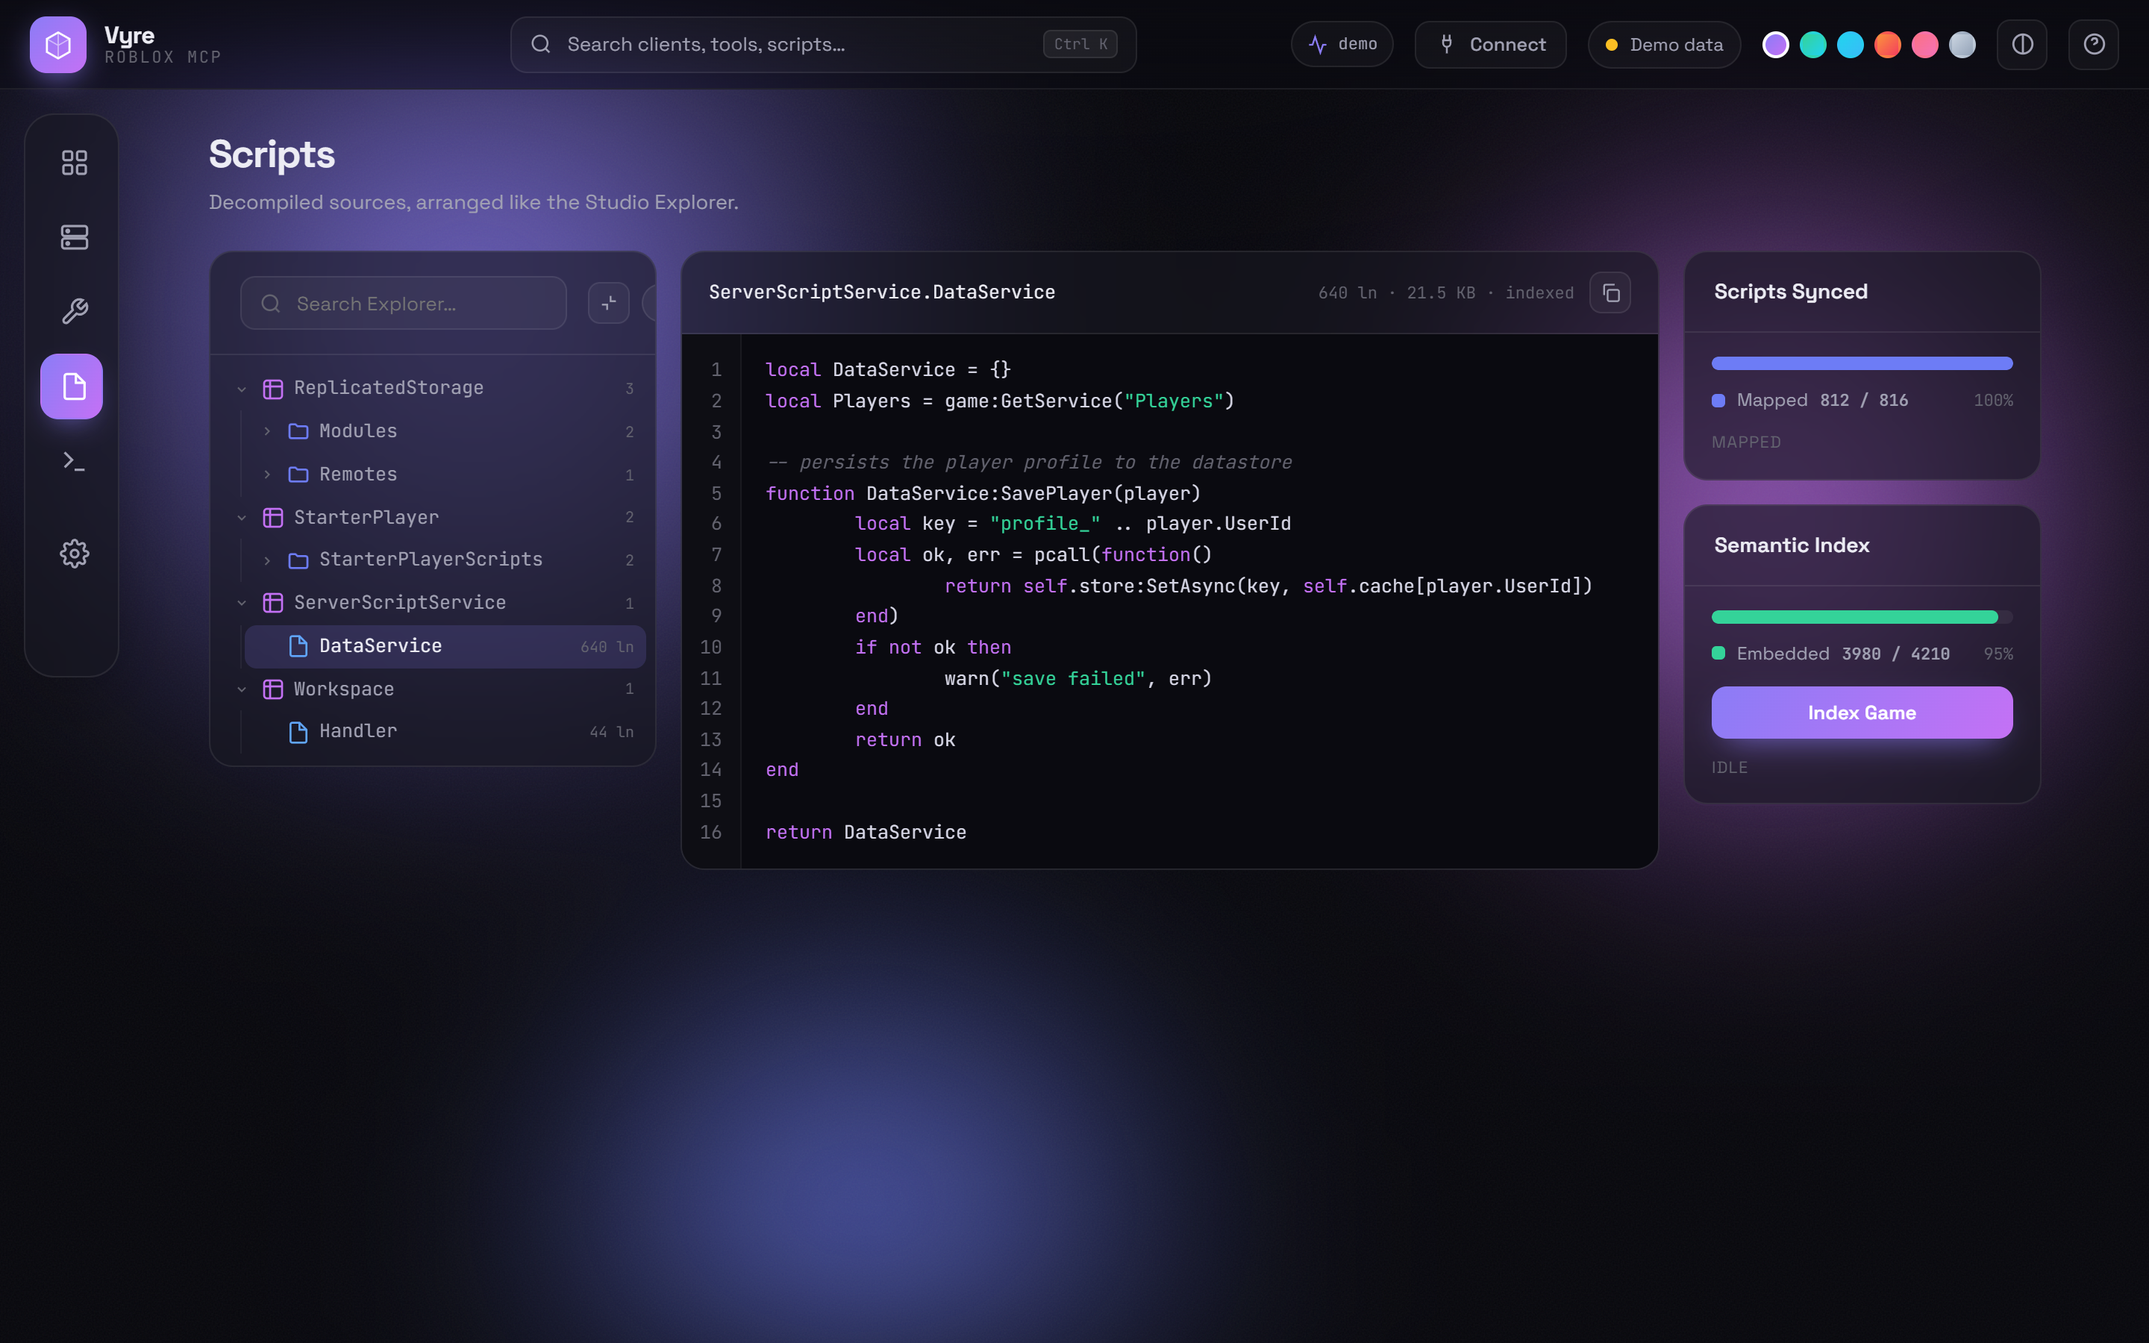
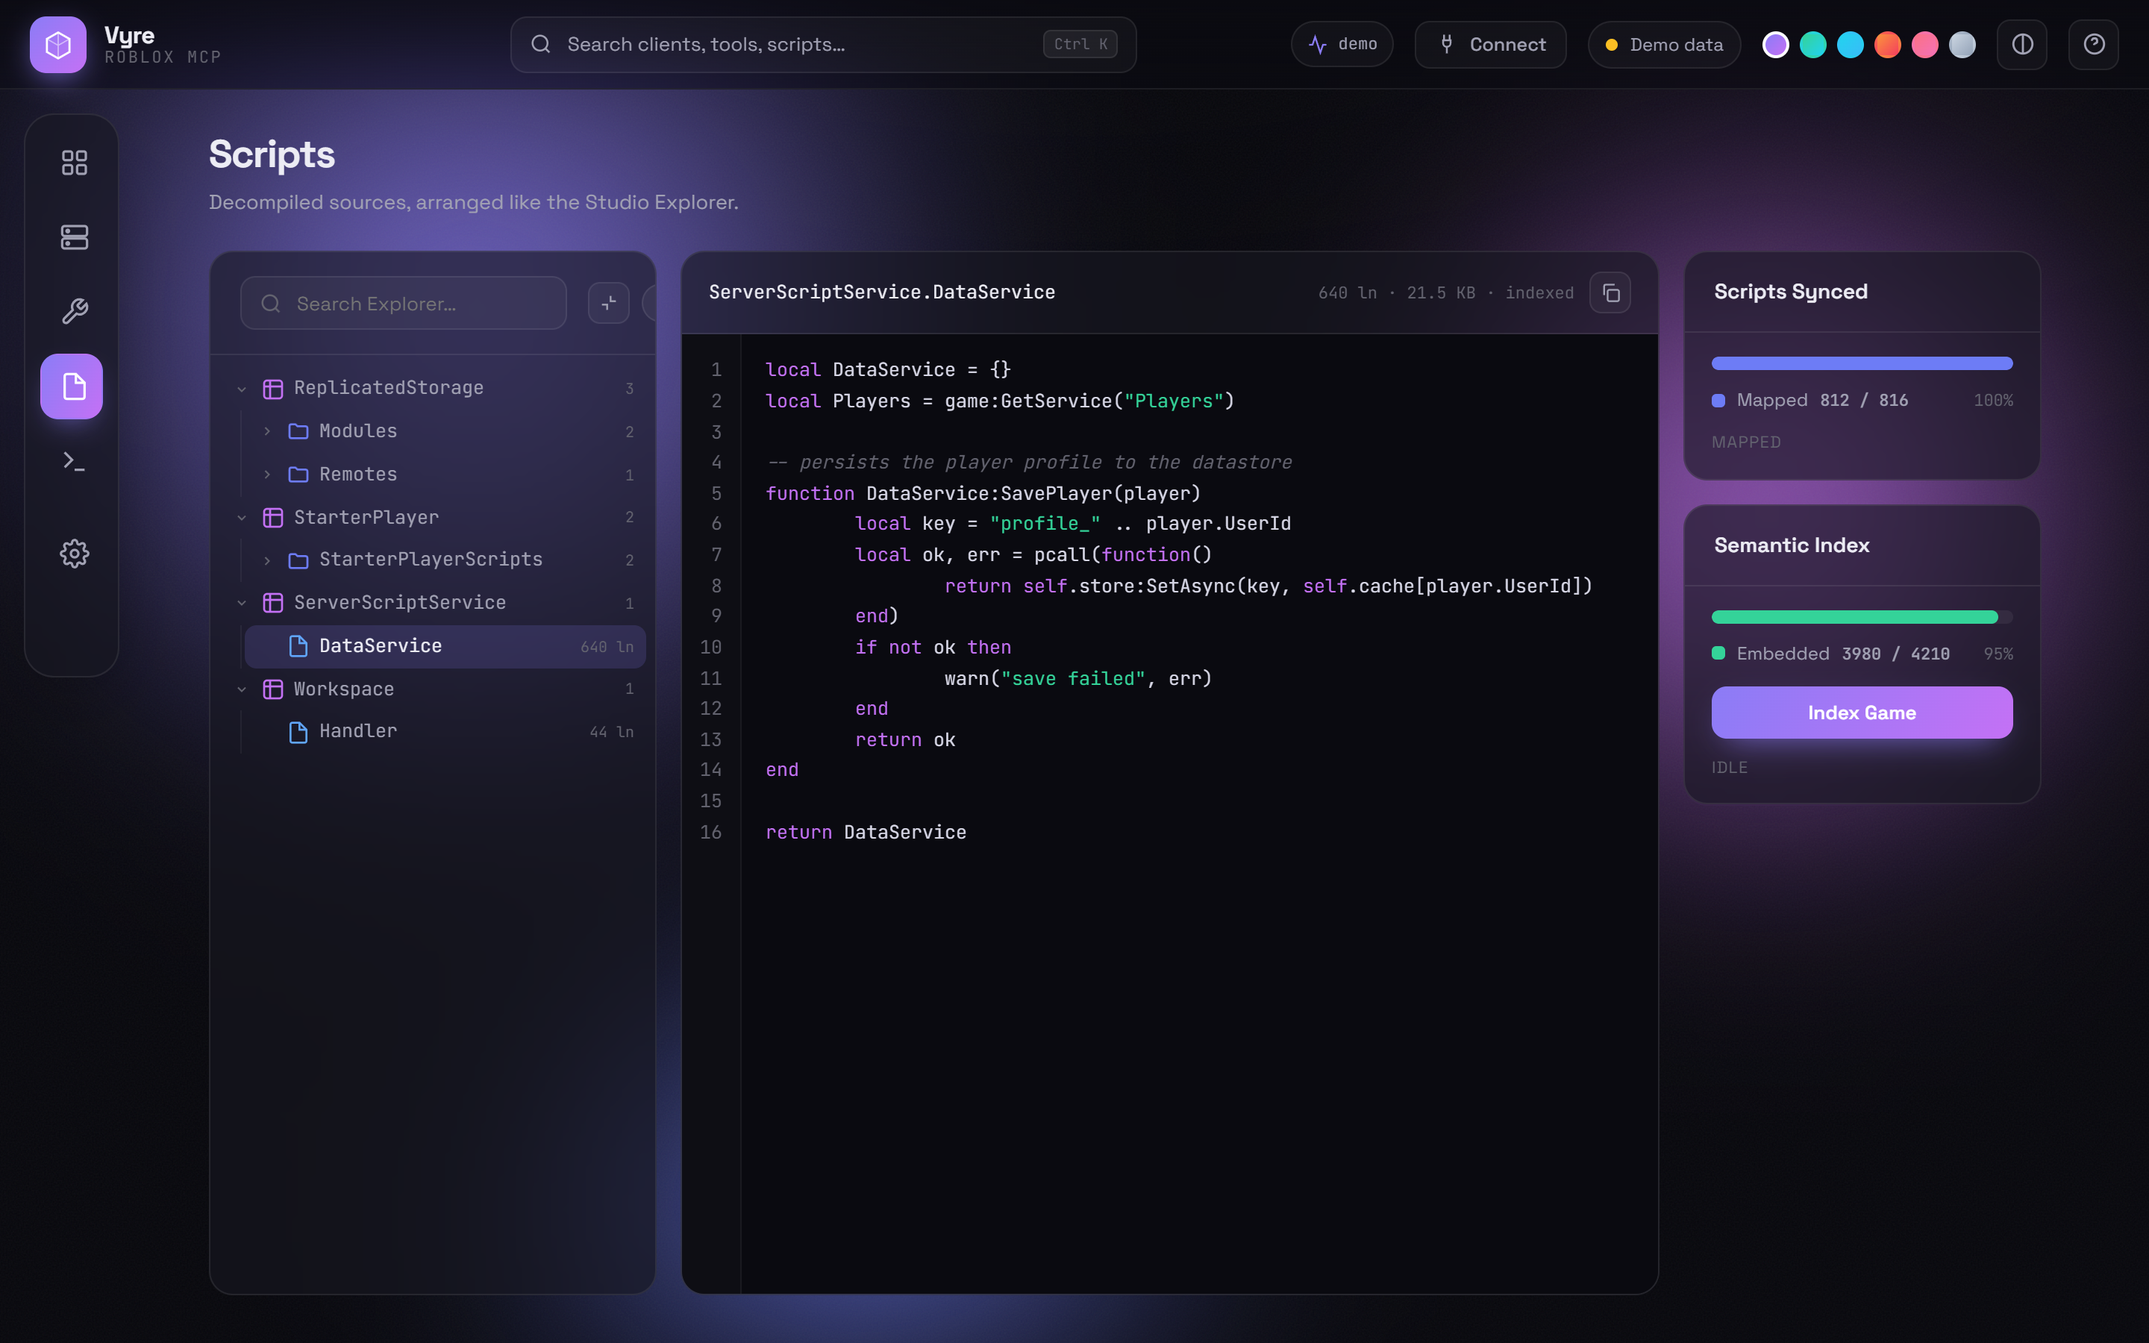
Network-graph topology, Explorer fix, GPU model suggest, cmd highlight
- Redesign server topology as a horizontal network graph (core → clients
  with bezier edges + flowing packets); retry render until laid out.
- Fix cropped Scripts Explorer (min-height:0 on flex children, height calc).
- Add "Suggest for my machine" in Ollama settings (WebGL GPU detect → model).
- Highlight matched substring in the command palette.
- Point README at the full installable MCP repo.

Changed region(s): [[0.2812, 0.6533, 0.5938, 0.9644], [0.75, 0.6222, 0.7812, 0.6533]]

diff --git a/dashboard.js b/dashboard.js
@@ -230,27 +230,31 @@ function renderTopo() {
   const w = box.clientWidth, h = box.clientHeight || 300;
   if (!w) return;
   const cs = state.data.clients || [], relays = state.data.relayClients || 0;
-  const cx = w / 2, cy = h / 2, rC = Math.min(w, h) * 0.32, rR = Math.min(w, h) * 0.46;
   const motion = root.dataset.motion !== "off";
-  const links = [], packets = [], nodes = [];
+  const coreX = w * 0.24, coreY = h / 2, clientX = w * 0.72;
+  const n = cs.length, padY = 58, span = Math.max(0, h - padY * 2);
+  const edges = [], packets = [], nodes = [];
   cs.forEach((c, i) => {
-    const a = -Math.PI / 2 + i / Math.max(1, cs.length) * Math.PI * 2;
-    const x = cx + Math.cos(a) * rC, y = cy + Math.sin(a) * rC;
-    const p = `M${cx} ${cy} L${x.toFixed(1)} ${y.toFixed(1)}`;
-    links.push(`<path class="topo-link" d="${p}"/>`);
-    if (motion) packets.push(`<circle class="topo-packet" r="3"><animateMotion dur="${(1.3 + i * .2).toFixed(1)}s" repeatCount="indefinite" path="${p}"/></circle>`);
-    nodes.push(`<div class="topo-node" style="left:${x}px;top:${y}px" title="${esc(c.username || "")} · ${(c.transport || "ws").toUpperCase()}"><div class="topo-dot" data-cid="${c.clientId}">${avatarInner(c)}</div><div class="topo-label">${esc(c.username || "Client")}<small>${(c.transport || "ws")}</small></div></div>`);
+    const y = n === 1 ? coreY : padY + span * (i / (n - 1));
+    const cp = coreX + (clientX - coreX) * 0.5;
+    const d = `M${coreX.toFixed(1)} ${coreY.toFixed(1)} C${cp.toFixed(1)} ${coreY.toFixed(1)} ${cp.toFixed(1)} ${y.toFixed(1)} ${clientX.toFixed(1)} ${y.toFixed(1)}`;
+    edges.push(`<path class="ng-edge" d="${d}"/>`);
+    if (motion) packets.push(`<circle class="ng-packet" r="3.2"><animateMotion dur="${(1.5 + i * .25).toFixed(2)}s" repeatCount="indefinite" path="${d}"/></circle>`);
+    nodes.push(`<div class="ng-node" style="left:${clientX}px;top:${y}px"><div class="ng-client${c.clientId === state.selected ? " active" : ""}" data-cid="${c.clientId}"><div class="ng-ava">${avatarInner(c)}</div><div class="ng-info"><b>${esc(c.username || "Client")}</b><span>${esc(c.placeName || "—")}</span></div><div class="ng-badge">${(c.transport || "ws").toUpperCase()}</div></div></div>`);
   });
+  const relayNodes = [];
   for (let i = 0; i < relays; i++) {
-    const a = -Math.PI / 2 + (i + .5) / Math.max(1, relays) * Math.PI * 2;
-    const x = cx + Math.cos(a) * rR, y = cy + Math.sin(a) * rR;
-    links.push(`<path class="topo-link relay" d="M${cx} ${cy} L${x.toFixed(1)} ${y.toFixed(1)}"/>`);
-    nodes.push(`<div class="topo-node" style="left:${x}px;top:${y}px"><div class="topo-dot relay">R${i + 1}</div><div class="topo-label">relay</div></div>`);
+    const ry = relays === 1 ? coreY : padY + span * (i / Math.max(1, relays - 1));
+    const rx = w * 0.06, mid = (rx + coreX) / 2;
+    edges.push(`<path class="ng-edge relay" d="M${rx.toFixed(1)} ${ry.toFixed(1)} C${mid.toFixed(1)} ${ry.toFixed(1)} ${mid.toFixed(1)} ${coreY.toFixed(1)} ${coreX.toFixed(1)} ${coreY.toFixed(1)}"/>`);
+    relayNodes.push(`<div class="ng-node" style="left:${rx}px;top:${ry}px"><div class="ng-relay"><i></i>R${i + 1}</div></div>`);
   }
-  box.innerHTML = `<svg class="topo-svg" viewBox="0 0 ${w} ${h}" preserveAspectRatio="none">${links.join("")}${packets.join("")}</svg>
-    <div class="topo-node" style="left:${cx}px;top:${cy}px"><div class="topo-core"><svg viewBox="0 0 24 24"><rect x="2" y="3" width="20" height="8" rx="2"/><rect x="2" y="13" width="20" height="8" rx="2"/><circle cx="6.5" cy="7" r="1"/><circle cx="6.5" cy="17" r="1"/></svg></div><div class="topo-label">MCP Core<small>${esc(state.data.role || "primary")}</small></div></div>
-    ${nodes.join("")}`;
-  $$("#serverTopo .topo-dot[data-cid]").forEach(n => n.onclick = () => { state.selected = n.dataset.cid; store.set("client", n.dataset.cid); render(); go("overview"); });
+  const empty = n ? "" : `<div class="ng-empty">No clients connected — hit Connect to attach one.</div>`;
+  box.innerHTML = `<svg class="ng-svg" viewBox="0 0 ${w} ${h}" preserveAspectRatio="none"><defs><linearGradient id="ngGrad" x1="0" y1="0" x2="1" y2="0"><stop offset="0" style="stop-color:var(--a1)"/><stop offset="1" style="stop-color:var(--a2)"/></linearGradient></defs>${edges.join("")}${packets.join("")}</svg>
+    <div class="ng-node" style="left:${coreX}px;top:${coreY}px"><div class="ng-core"><div class="ng-core-badge"><svg viewBox="0 0 24 24"><rect x="2" y="3" width="20" height="8" rx="2"/><rect x="2" y="13" width="20" height="8" rx="2"/><circle cx="6.5" cy="7" r="1"/><circle cx="6.5" cy="17" r="1"/></svg></div><div class="ng-core-cap"><b>MCP Core</b><span>${esc(state.data.role || "primary")} · :16384</span></div></div></div>
+    ${relayNodes.join("")}${nodes.join("")}${empty}`;
+  box.classList.add("netgraph");
+  $$("#serverTopo .ng-client[data-cid]").forEach(nd => nd.onclick = () => { state.selected = nd.dataset.cid; store.set("client", nd.dataset.cid); render(); go("overview"); });
 }
 
 const LVL = { info: "info", warn: "warn", error: "error", success: "success" };
@@ -563,6 +567,33 @@ async function delCache() {
   try { await fetch("/api/semantic-settings", { method: "DELETE" }); toast("ok", "Embedding cache cleared"); }
   catch (e) { toast("err", String(e.message || e)); }
 }
+function detectGpu() {
+  try {
+    const cv = document.createElement("canvas");
+    const gl = cv.getContext("webgl") || cv.getContext("experimental-webgl");
+    if (!gl) return "unknown";
+    const ext = gl.getExtension("WEBGL_debug_renderer_info");
+    return (ext && gl.getParameter(ext.UNMASKED_RENDERER_WEBGL)) || gl.getParameter(gl.RENDERER) || "unknown";
+  } catch { return "unknown"; }
+}
+function suggestModel() {
+  const gpu = detectGpu(), g = String(gpu).toLowerCase();
+  const dedicated = /(rtx|gtx|radeon rx|\bamd\b|nvidia|geforce|\barc\b|quadro|tesla|\ba\d{3,4}\b)/.test(g);
+  const weak = /(gtx\s?(9|10[0-5])|mx\d|uhd|hd graphics)/.test(g);
+  let model, why;
+  if (dedicated && !weak) { model = "mxbai-embed-large"; why = "dedicated GPU with plenty of VRAM headroom — go for the highest-quality embeddings."; }
+  else if (dedicated) { model = "nomic-embed-text"; why = "capable GPU — a fast, high-quality embedding model."; }
+  else if (/intel|iris|apple|mali|adreno/.test(g)) { model = "nomic-embed-text"; why = "integrated graphics — this light, fast model is the safe pick."; }
+  else { model = "nomic-embed-text"; why = "GPU unreadable from the browser — this light model runs well almost anywhere."; }
+  $("#olModel").value = model;
+  $("#suggestOut").innerHTML = `<b>${esc(gpu)}</b> → <b>${model}</b>. ${why} Pull: <b>ollama pull ${model}</b>`;
+}
+function hlLabel(label, q) {
+  if (!q) return esc(label);
+  const i = label.toLowerCase().indexOf(q);
+  if (i < 0) return esc(label);
+  return esc(label.slice(0, i)) + "<mark>" + esc(label.slice(i, i + q.length)) + "</mark>" + esc(label.slice(i + q.length));
+}
 
 const VIEWS = ["overview", "server", "tools", "scripts", "logs", "settings"];
 function go(view) {
@@ -572,7 +603,13 @@ function go(view) {
   if (view === "scripts") loadScripts();
   if (view === "settings") loadSemantic();
   if (view === "logs") renderLogs();
-  if (view === "server") requestAnimationFrame(renderTopo);
+  if (view === "server") ensureTopo();
+}
+function ensureTopo(tries) {
+  tries = tries == null ? 10 : tries;
+  const box = $("#serverTopo");
+  if (box && box.clientWidth > 0) { renderTopo(); return; }
+  if (tries > 0) requestAnimationFrame(() => ensureTopo(tries - 1));
 }
 
 function openConnect() { $("#connectModal").hidden = false; }
@@ -627,7 +664,7 @@ function paintCmd(q) {
     box.appendChild(el("div", "cmd-group-label", g));
     match.filter(c => c.group === g).forEach(c => {
       const it = el("div", "cmd-item");
-      it.innerHTML = `${c.client ? `<div class="ci-badge">${avatarInner(c.client)}</div>` : badge(c)}<span>${esc(c.label)}</span><kbd>${c.kind}</kbd>`;
+      it.innerHTML = `${c.client ? `<div class="ci-badge">${avatarInner(c.client)}</div>` : badge(c)}<span>${hlLabel(c.label, ql)}</span><kbd>${c.kind}</kbd>`;
       const idx = cmdItems.length;
       it.onmouseenter = () => { cmdSel = idx; markCmd(); };
       it.onclick = () => { c.run(); closeCmd(); };
@@ -706,6 +743,7 @@ function wire() {
 
   $$("#provSeg .seg-btn").forEach(b => b.onclick = () => setProv(b.dataset.prov));
   $("#saveProv").onclick = saveProv; $("#testProv").onclick = testProv; $("#delCache").onclick = delCache;
+  $("#suggestBtn").onclick = suggestModel;
 
   $("#cmdOpen").onclick = openCmd;
   $("#cmdInput").oninput = e => paintCmd(e.target.value);

diff --git a/dashboard.css b/dashboard.css
@@ -425,10 +425,10 @@ html[data-density="compact"] .stage{padding-top:74px}
 .topo-core::after{content:"";position:absolute;inset:-6px;border-radius:26px;border:1px solid rgba(139,124,246,.3);animation:coreRing 3s var(--ease) infinite}
 @keyframes coreRing{0%{transform:scale(1);opacity:.6}100%{transform:scale(1.5);opacity:0}}
 
-.scripts-layout{display:grid;grid-template-columns:300px 1fr 240px;gap:16px;align-items:start;height:calc(100vh - 190px)}
-.scripts-explorer{display:flex;flex-direction:column;max-height:100%}
+.scripts-layout{display:grid;grid-template-columns:300px minmax(0,1fr) 240px;gap:16px;align-items:stretch;height:calc(100vh - 200px);min-height:420px}
+.scripts-explorer{display:flex;flex-direction:column;min-height:0;overflow:hidden}
 .explorer-tools{display:flex;align-items:center;gap:8px}
-.tree{overflow:auto;padding:8px 6px;flex:1}
+.tree{overflow:auto;padding:8px 6px;flex:1;min-height:0}
 .tree-node{user-select:none}
 .tree-row{display:flex;align-items:center;gap:6px;padding:5px 8px;border-radius:8px;cursor:pointer;font-size:12.5px;color:var(--text-2);transition:background .12s}
 .tree-row:hover{background:rgba(255,255,255,.04);color:var(--text)}
@@ -444,7 +444,8 @@ html[data-density="compact"] .stage{padding-top:74px}
 .tree-node.collapsed>.tree-children{display:none}
 .ico-folder{color:var(--a3)} .ico-script{color:#60a5fa} .ico-local{color:#f59e0b} .ico-module{color:#34d399} .ico-service{color:var(--a2)}
 
-.scripts-viewer{display:flex;flex-direction:column;max-height:100%;overflow:hidden}
+.scripts-viewer{display:flex;flex-direction:column;min-height:0;overflow:hidden}
+.scripts-sync{min-height:0;overflow:auto}
 .viewer-head{display:flex;align-items:center;justify-content:space-between;gap:12px;padding:13px 18px;border-bottom:1px solid var(--stroke)}
 .viewer-title{font-family:var(--mono);font-size:12.5px;color:var(--text);overflow:hidden;text-overflow:ellipsis;white-space:nowrap}
 .viewer-actions{display:flex;align-items:center;gap:10px}
@@ -510,4 +511,41 @@ html[data-density="compact"] .stage{padding-top:74px}
 .key-row span{flex:1}
 .key-row kbd{font-family:var(--mono);font-size:11px;padding:3px 8px;border-radius:6px;background:rgba(255,255,255,.06);border:1px solid var(--stroke);color:var(--text)}
 
-@media(max-width:1180px){.scripts-layout{grid-template-columns:1fr;height:auto}.scripts-viewer{min-height:340px}}
+@media(max-width:1180px){.scripts-layout{grid-template-columns:1fr;height:auto}.scripts-viewer{min-height:340px}.scripts-explorer{min-height:320px}}
+
+.netgraph{position:absolute;inset:0}
+.ng-svg{position:absolute;inset:0;width:100%;height:100%;overflow:visible}
+.ng-edge{fill:none;stroke:url(#ngGrad);stroke-width:2;stroke-linecap:round;opacity:.5;stroke-dasharray:5 7;animation:ngFlow 1.1s linear infinite}
+.ng-edge.relay{stroke:rgba(255,255,255,.25);opacity:.4;animation-duration:1.6s}
+@keyframes ngFlow{to{stroke-dashoffset:-24}}
+.ng-packet{fill:var(--a2);filter:drop-shadow(0 0 5px var(--a2))}
+.ng-node{position:absolute;transform:translate(-50%,-50%);z-index:2}
+.ng-core{display:flex;flex-direction:column;align-items:center;gap:9px}
+.ng-core-badge{position:relative;width:78px;height:78px;border-radius:22px;display:grid;place-items:center;color:#fff;background:linear-gradient(135deg,var(--a1),var(--a2));box-shadow:0 14px 38px -12px var(--a1)}
+.ng-core-badge svg{width:34px;height:34px;fill:none;stroke:currentColor;stroke-width:1.7}
+.ng-core-badge::after{content:"";position:absolute;inset:-7px;border-radius:28px;border:1px solid rgba(139,124,246,.35);animation:coreRing 3s var(--ease) infinite}
+.ng-core-cap{text-align:center;line-height:1.25}
+.ng-core-cap b{font-size:13px;font-weight:600}
+.ng-core-cap span{display:block;font-family:var(--mono);font-size:9px;color:var(--text-3);text-transform:uppercase;letter-spacing:.14em}
+.ng-client{display:flex;align-items:center;gap:11px;width:210px;padding:11px 13px;border-radius:15px;cursor:pointer;
+  background:linear-gradient(180deg,rgba(255,255,255,.05),rgba(255,255,255,.02));border:1px solid var(--stroke-strong);
+  backdrop-filter:blur(10px);box-shadow:0 14px 34px -18px rgba(0,0,0,.8);transition:transform .18s var(--ease),border-color .18s}
+.ng-client:hover{transform:translateY(-2px);border-color:var(--a2)}
+.ng-client.active{border-color:var(--a1);box-shadow:0 0 0 1px var(--a1),0 14px 34px -16px var(--a1)}
+.ng-ava{width:40px;height:40px;border-radius:12px;flex-shrink:0;overflow:hidden;background:linear-gradient(135deg,var(--a2),var(--a3));display:grid;place-items:center;font-weight:700;color:#fff;font-size:14px}
+.ng-ava img{width:100%;height:100%;object-fit:cover}
+.ng-info{min-width:0;flex:1}
+.ng-info b{display:block;font-size:13px;font-weight:600;overflow:hidden;text-overflow:ellipsis;white-space:nowrap}
+.ng-info span{display:block;font-size:11px;color:var(--text-3);overflow:hidden;text-overflow:ellipsis;white-space:nowrap}
+.ng-badge{font-family:var(--mono);font-size:9px;font-weight:600;letter-spacing:.08em;color:var(--a2);padding:3px 7px;border-radius:7px;background:rgba(255,255,255,.05);border:1px solid var(--stroke);flex-shrink:0}
+.ng-relay{display:flex;align-items:center;gap:8px;padding:7px 11px;border-radius:11px;background:rgba(255,255,255,.04);border:1px solid var(--stroke);font-size:11px;color:var(--text-2)}
+.ng-relay i{width:8px;height:8px;border-radius:3px;background:rgba(255,255,255,.4)}
+.ng-empty{position:absolute;top:50%;left:62%;transform:translateY(-50%);color:var(--text-3);font-size:12.5px}
+
+.suggest-row{display:flex;align-items:center;gap:10px;padding:10px 20px}
+.suggest-btn{display:flex;align-items:center;gap:8px;padding:8px 13px;border-radius:9px;cursor:pointer;background:rgba(139,124,246,.1);border:1px solid var(--accent-line,rgba(139,124,246,.35));color:var(--a2);font-family:var(--sans);font-size:12.5px;font-weight:500;transition:.16s}
+.suggest-btn:hover{background:rgba(139,124,246,.18)}
+.suggest-btn svg{width:14px;height:14px;fill:none;stroke:currentColor;stroke-width:2}
+.suggest-out{font-size:12px;color:var(--text-2);flex:1}
+.suggest-out b{color:var(--text);font-family:var(--mono)}
+.cmd-item mark{background:none;color:var(--a2);font-weight:600}

diff --git a/index.html b/index.html
@@ -333,6 +333,10 @@
         <div class="prov-pane" id="provOllama" hidden>
           <div class="field2"><label>Base URL</label><input type="text" id="olUrl" placeholder="http://localhost:11434"></div>
           <div class="field2"><label>Model</label><input type="text" id="olModel" placeholder="embeddinggemma"></div>
+          <div class="suggest-row">
+            <button class="suggest-btn" id="suggestBtn"><svg viewBox="0 0 24 24"><path d="M12 2a7 7 0 0 0-4 12.7V17a1 1 0 0 0 1 1h6a1 1 0 0 0 1-1v-2.3A7 7 0 0 0 12 2z"/><path d="M9 21h6"/></svg>Suggest for my machine</button>
+            <div class="suggest-out" id="suggestOut"></div>
+          </div>
         </div>
         <label class="setting-row inset"><span>Persist embeddings to disk</span><span class="switch"><input type="checkbox" id="saveEmb"><i></i></span></label>
         <div class="settings-actions">

diff --git a/README.md b/README.md
@@ -1,5 +1,8 @@
 # Vyre — Roblox MCP Dashboard
 
+> **Want the whole thing (server + dashboard) ready to install?** Use the full repo: **[dedankschool-oss/roblox-executor-mcp](https://github.com/dedankschool-oss/roblox-executor-mcp)** — clone, `npm run install:harnesses`, done. This repo is just the standalone dashboard front-end.
+
+
 A drop-in control panel for the Roblox MCP bridge. Same backend, same API, a completely reworked face: a floating glass **dock**, a **bento** mission-control overview, a **Studio-style script Explorer**, a live **relay topology**, six switchable **color themes**, a grouped **⌘K command palette**, and a **demo mode** so it looks alive even with no client connected.
 
 Three files. No build step. No dependencies.
